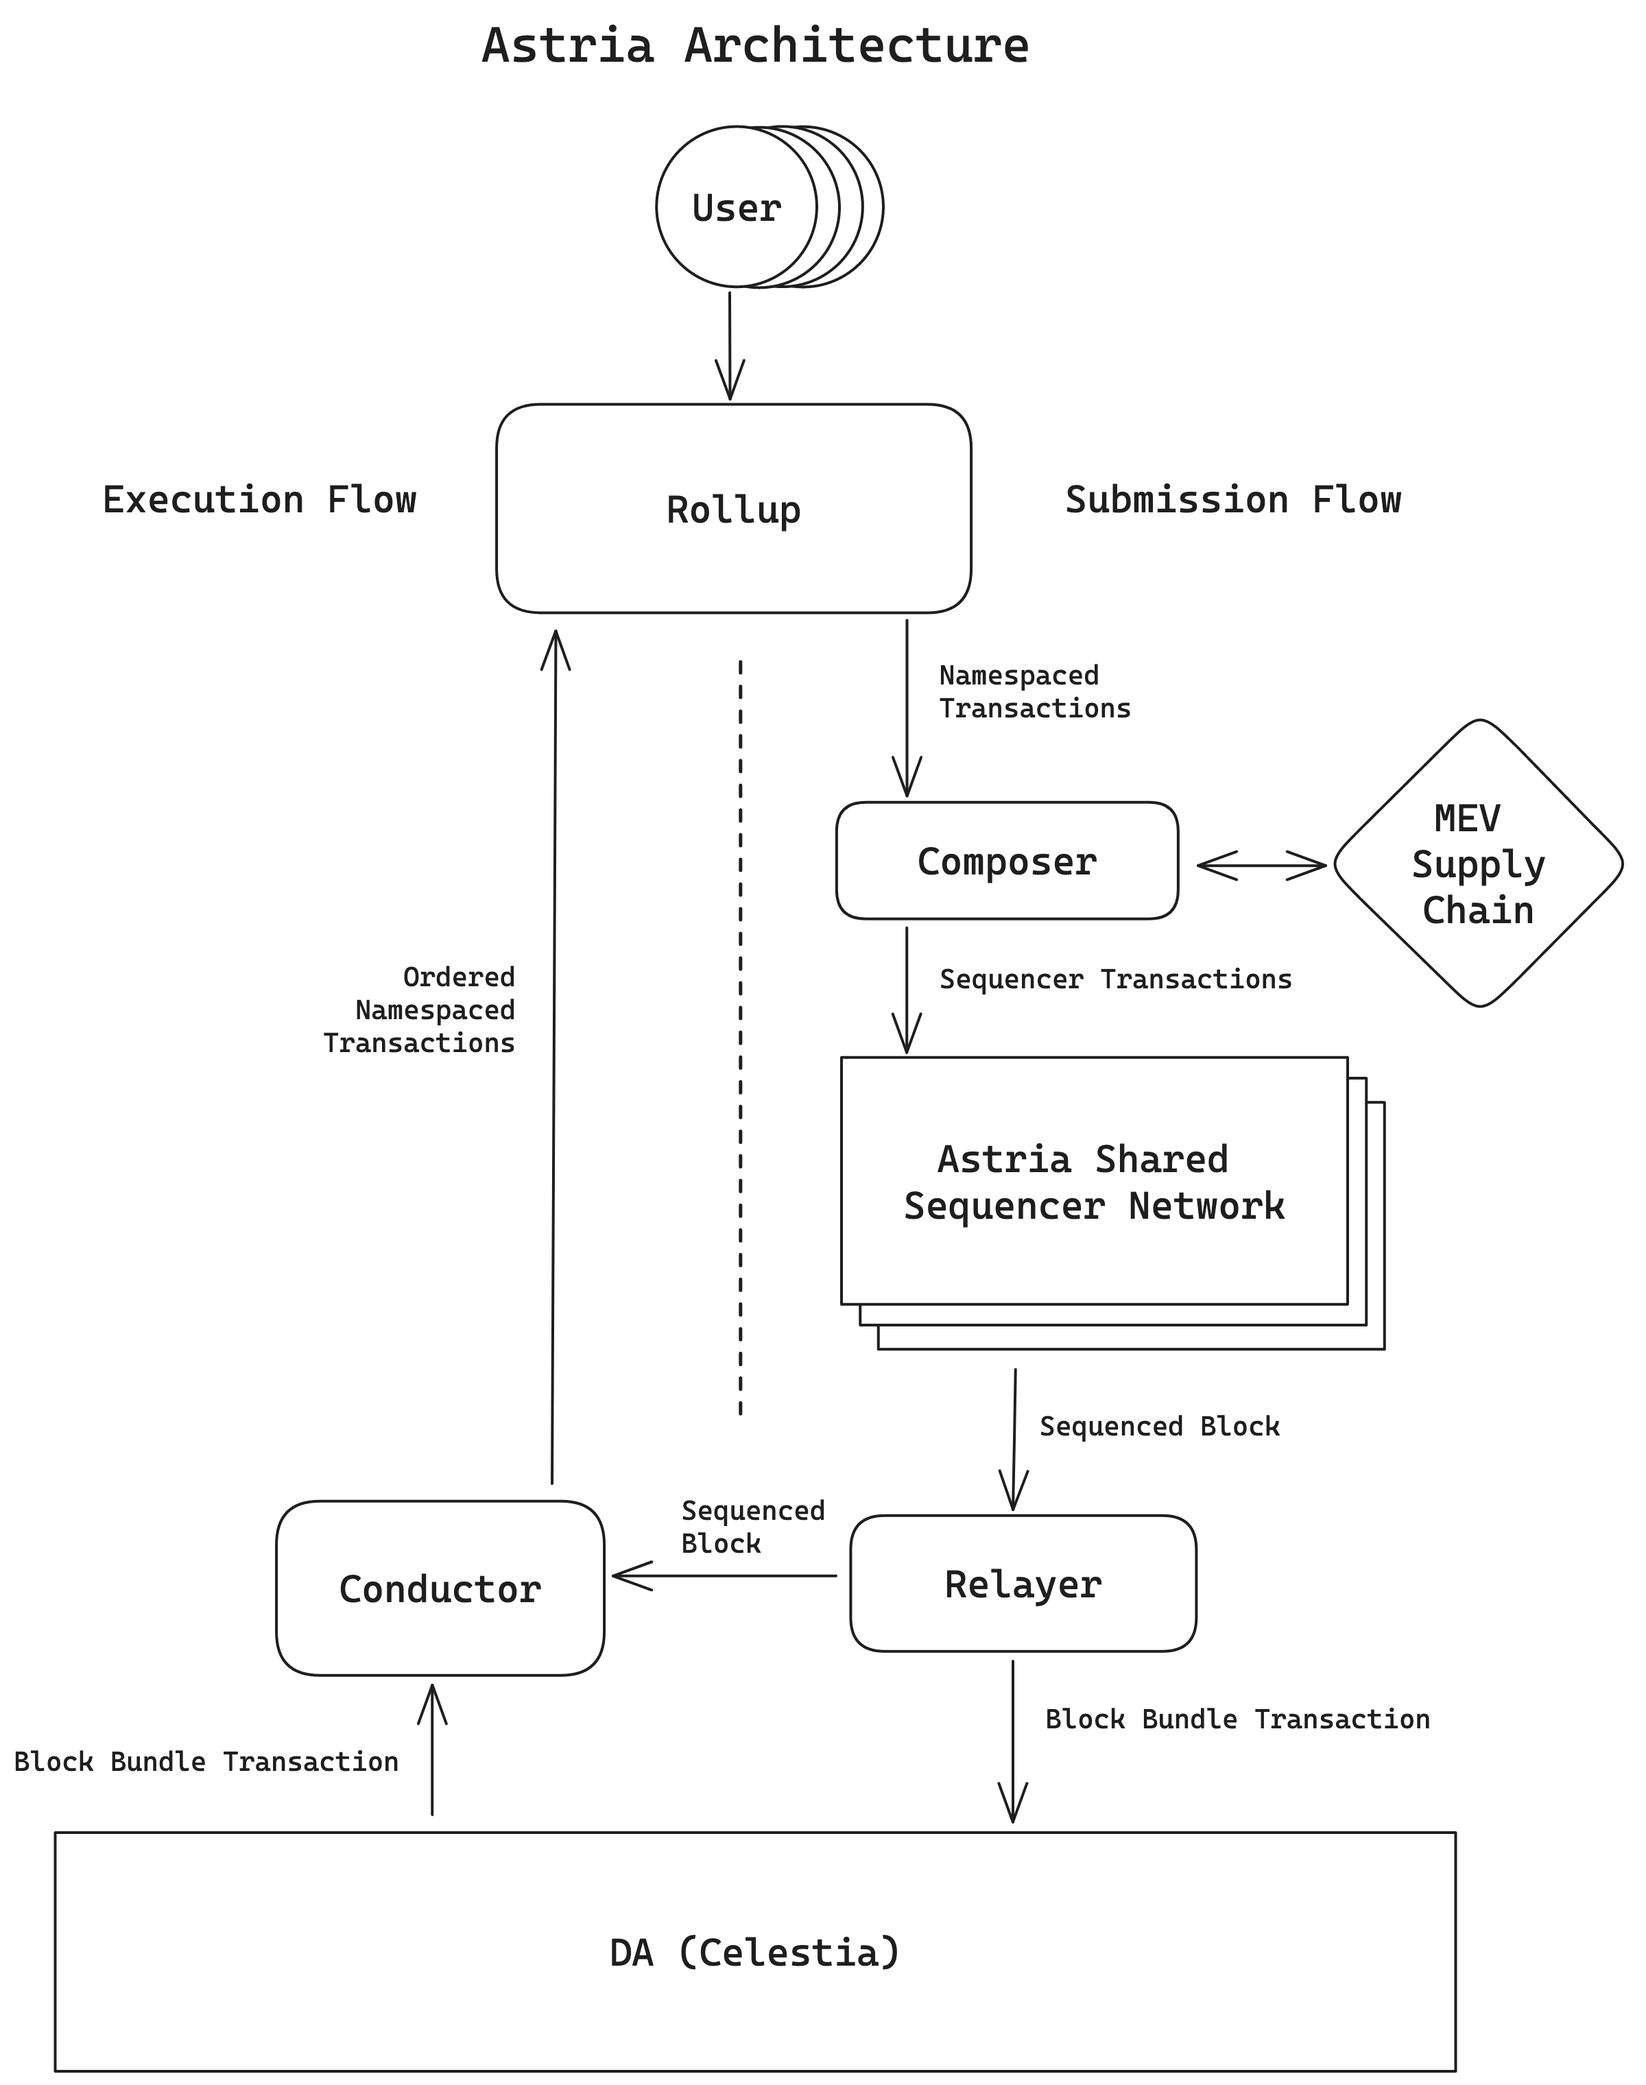
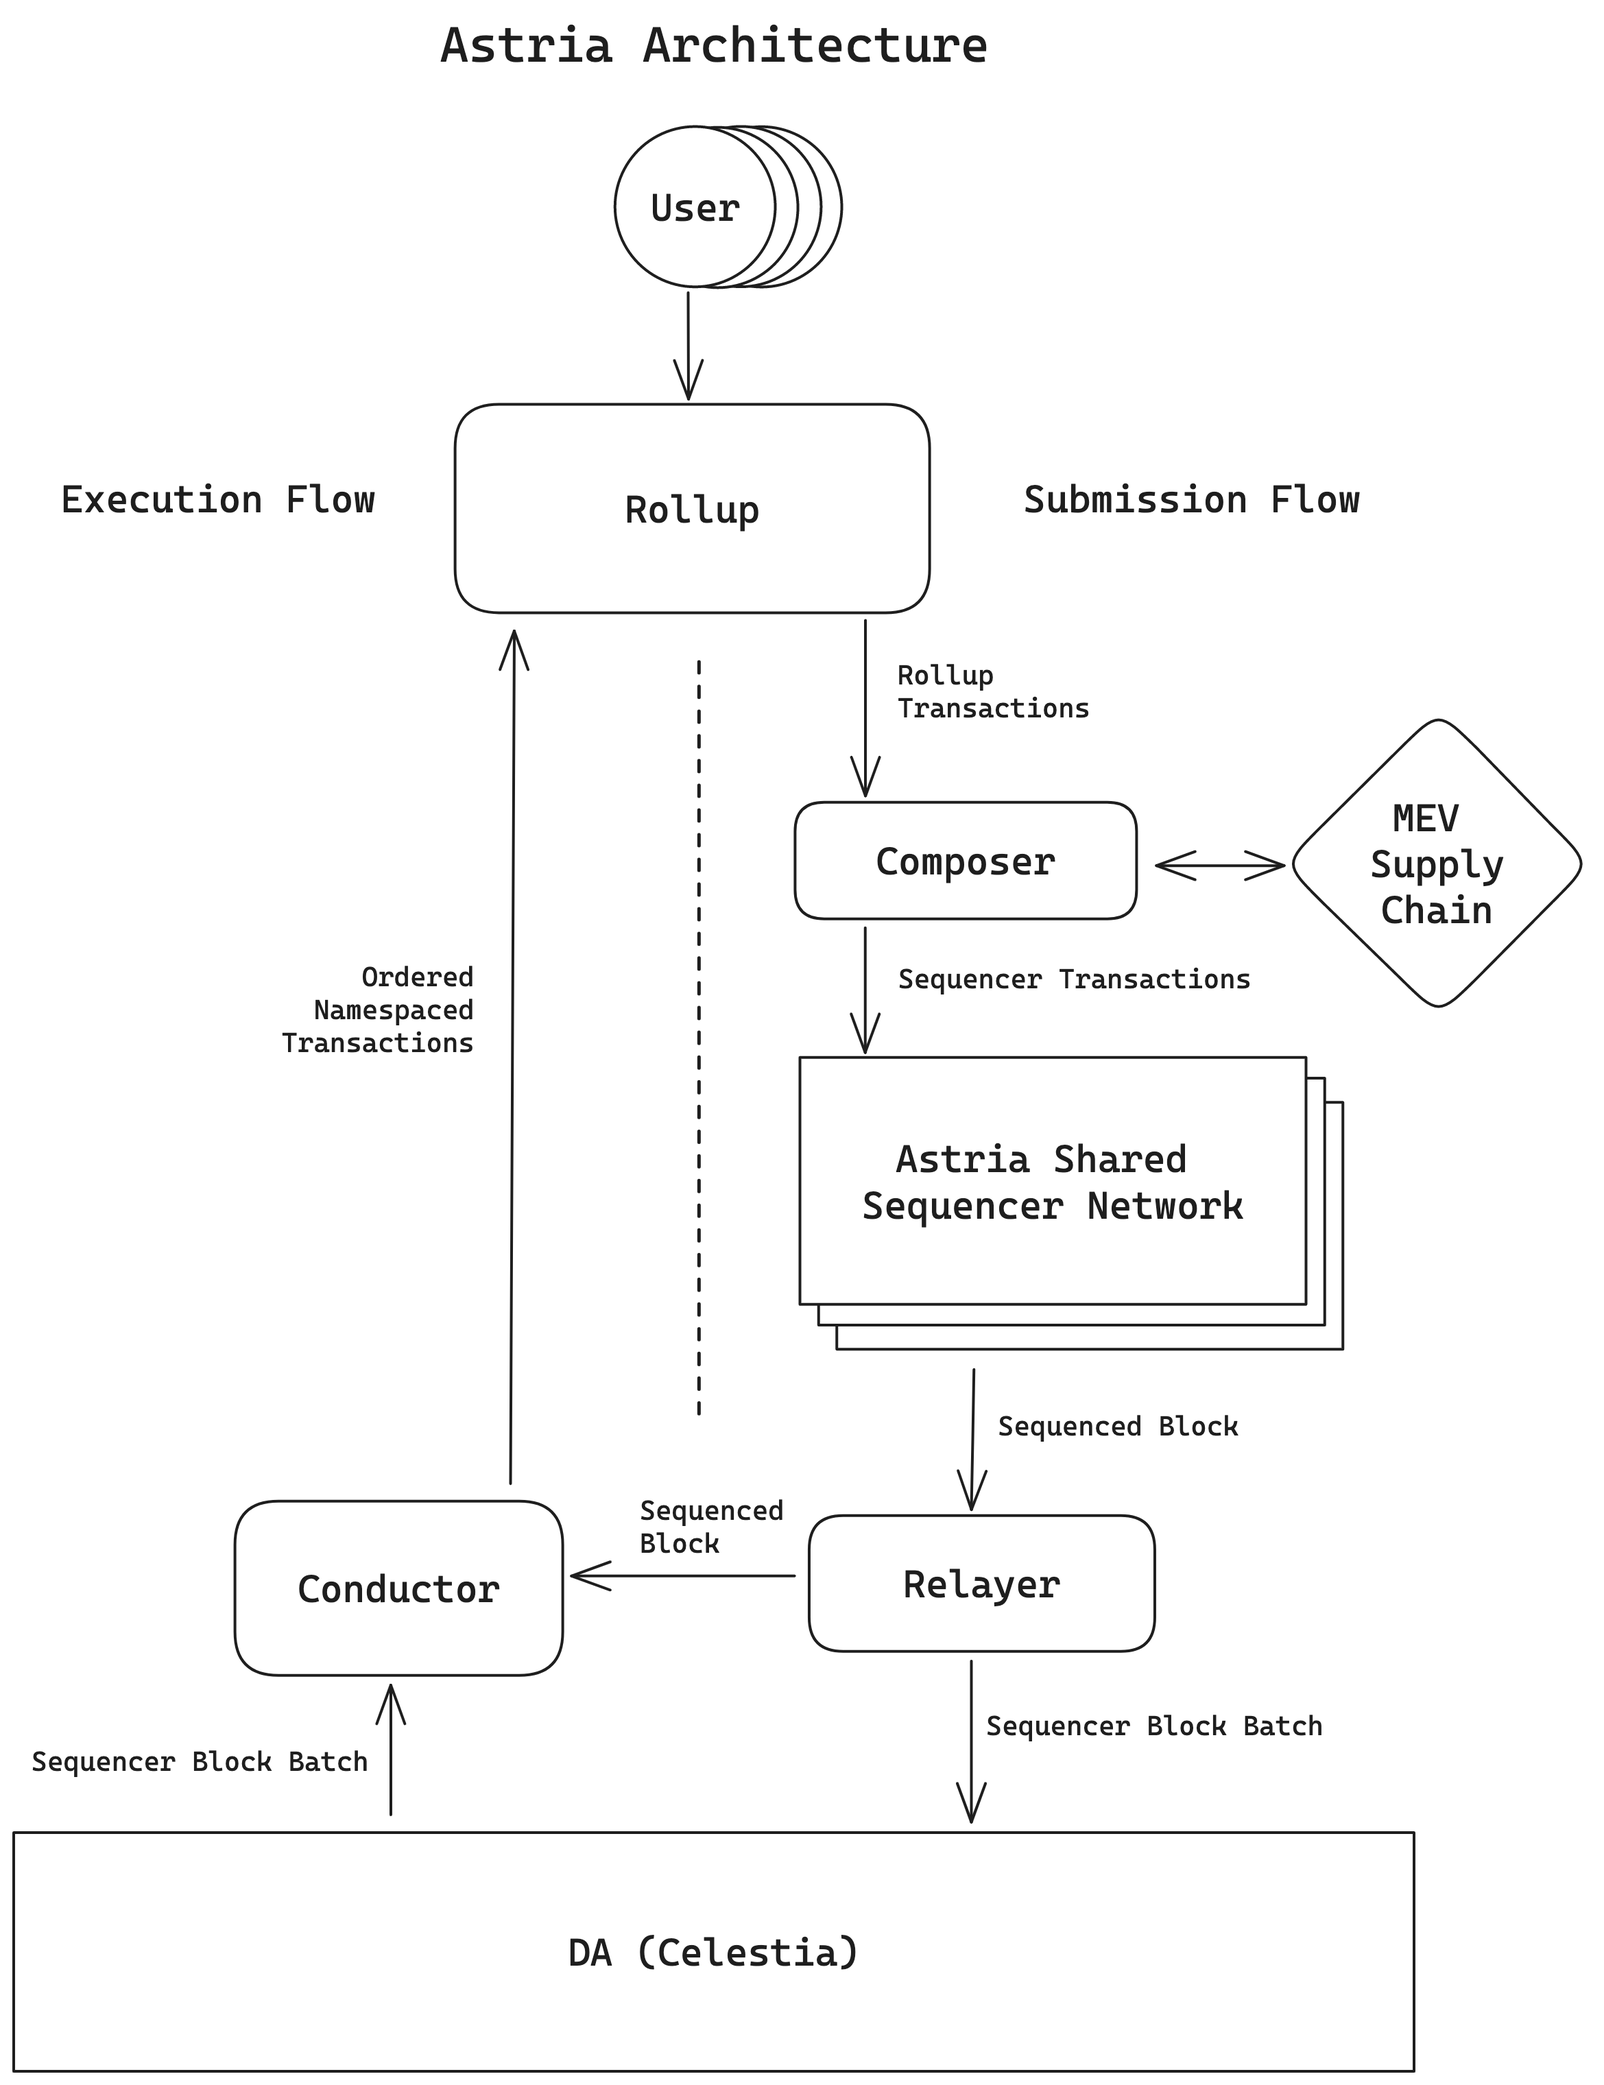
second draft

diff --git a/docs/astria.md b/docs/astria.md
@@ -17,37 +17,32 @@
  - [Summary](#summary)
 
 ## The Astria [dev-cluster](https://github.com/astriaorg/dev-cluster)
-The Astria Shared Sequencer Network replaces centralized sequencers, allowing many rollups to share a single decentralized network of sequencers that’s simple and permissionless to join. This shared sequencer network provides out-of-the-box censorship resistance, fast block confirmations, and atomic cross-rollup composability – all while retaining each rollup’s sovereignty.
+Astria's Shared Sequencer Network allows multiple rollups to share a single decentralized network of sequencers that’s permissionless to join. This shared sequencer network provides out-of-the-box censorship resistance, fast block confirmations, and atomic cross-rollup inclusion guarantees.
 
-The Astria dev-cluster is the collective stack of all of Astria's components packaged together using Kubernetes. Although we refer to Astria as just a shared sequencer, it is composed of many smaller components that each fulfill a specific function to enable the final shared sequencing functionality. Instead of users and developers having to keep track of and manage all the individual components, the dev-cluster is built to make locally deploying and testing Astria as simple and robust as possible. 
+The Astria dev-cluster is the collective stack of all of Astria's components packaged together using Kubernetes. While we generally refer to Astria as the network of shared sequencers, we provide several other components to make it simpler to integrate with the shared sequencer network. The dev-cluster is provided to make developing and testing the Astria network, as well as integrations with Astria, as simple as possible.
 
-This document outlines what each of the components do, and provides some basic instructions for running the dev cluster yourself.
+This document outlines what each of the components in the dev-cluster do, and provides instructions for how to run the dev cluster locally.
 
 ## Architecture
-If you have seen any of [Josh's](https://twitter.com/Jskybowen) recent presentations about Astria, you will likely have seen this image:
-![Astria at a high level](images/astria-high-level.png)
-This shows the basic structure of what a shared sequencer is but purposely doesn't dive into any of the details of Astria to keep things simple. However, Astria's general architecture does break down into the basic items shown above.
+At a high level, Astria breaks out all of the components that are historically combined together in monolithic blockchains into individual components. This results in a modular ecosystem that allows users to swap out components to fit their specific needs.
 
-When expanded to show more detail, Astria's architecture looks like this:
 ![Astria Architecture](images/astria-architecture.png)
-Given the diagram above, we can take a look at each of the components that make up Astria in more detail.
+Astria's architecture follows the structure outlined in the first diagram. Notable differences between Astria and the basic structure are the Composer, Relayer, and Conductor. Astria's Composer handles the order flow operations, and the Relayer and Conductor facilitate the soft and firm commitments. Ultimately, Astria's architecture is just an expanded version of the first diagram.
 
 ### Users
-One of the goals of Astria is to improve the current user experience by having fast finality, Cross Rollup Composability, decentralization, and  sovereignty all in one place and out of the box. There are no hard requirements for rollups to change how their current users interact with what they offer, but additional RPCs would need to be implemented by the rollup in order for their users to take advantage of some of those features.
+One of Astria's goals is to provide rollups with fast finality, atomic cross-rollup inclusion, and decentralization out of the box, without requiring changes to their end user experience. Individual rollups should be able to provide a native experience to their users, Metamask should "just work" with an EVM rollup, and Kepler should "just work" with a cosmos-sdk rollup.
 
 ### Rollups
-Astria is designed for permissionless rollup integration and takes advantage of lazy shared sequencing. This means that rollup developers have total sovereignty over their own execution state and can swap out sequencing layers without fear of being locked in. See the [Introduction to Astria](https://blog.astria.org/introducing-astria/) blog post for more details.
-
-When developing a rollup that utilizes Astria, there are only two interfaces that you need to satisfy:
-1. Rollup <-> Composer: 
+Astria is designed for permissionless rollup integration and takes advantage of lazy shared sequencing. This means that rollup developers have total sovereignty over their own execution state and can swap out sequencing layers without fear of being locked in. You do not need to ask for permission or go through a governance process to gain access. A rollup simply needs to satisfy the following interfaces:
+1. Write Interface (Rollup <-> Composer):
     - For transaction submissions.
-2. Rollup <-> Conductor: 
-    - For receiving data from the sequencing network.
+2. Read Interface (Rollup <-> Conductor):
+    - For receiving blocks from the shared sequencer network.
 
 The [Composer](#composer) and [Conductor](#conductor) are explained in more detail in future sections.
 
 ![Astria Rollup](images/astria-rollups.png)
-These interfaces utilize [gRPC](https://grpc.io/) to allow for rollup developers to use a wide range of languages for their application. Check out the [astria-protos](https://github.com/astriaorg/astria/tree/main/crates/astria-proto) repo for specific implementation details. This ultimately results in tremendous freedom for developers, giving them control over their own execution and state without needing to worry about the underlying sequencer and data availability infrastructure.
+Both composer and conductor expose [gRPC](https://grpc.io/) interfaces. See the [astria-protos](https://github.com/astriaorg/astria/tree/main/crates/astria-proto) repo for specific implementation details.
 
 The current dev-cluster deploys a fork of [Geth](https://github.com/astriaorg/go-ethereum) as an EVM rollup. 
 
@@ -65,7 +60,7 @@ The sequencer can optionally act as a “validator”, meaning it actively parti
 ### Relayer
 The Relayer's responsibility is to take validated blocks from the sequencer and pass them along to both the Conductor and the DA layer. Because the sequencers block times are much faster than those of the DA, the relayer also collects a queue of sequencer blocks before wrapping them for submission to DA.
 
-The individual sequencer blocks sent to the Conductor enable fast finality for an improved UX and also act as soft commits for the execution layer. The collections of blocks sent to the DA layer are used as a source of truth and are ultimately pulled from the DA to be used as firm commits for finality in the rolllups.
+The individual sequencer blocks sent immediately to the Conductor to enable fast finality for an improved UX and also act as soft commits for the execution layer. The collections of blocks sent to the DA layer are used as a source of truth and are ultimately pulled from the DA to be used as firm commits for finality in the rolllups.
 
 ### Data Availability
 The dev-cluster uses [Celestia](https://github.com/celestiaorg) as the data availability layer and is the ultimate destination of all data that has been ordered by the sequencer network. Once written to Celestia, the transaction order is considered final and it is where all data will be pulled from if you need to spin up a new rollup node.
@@ -73,9 +68,7 @@ The dev-cluster uses [Celestia](https://github.com/celestiaorg) as the data avai
 ### Conductor
 The Conductor is the second to last component in the data lifecycle for transaction in the Astria stack, with the rollup itself being both the start and finish for any given transaction. Each rollup runs its own instance of the Conductor. The Conductor's responsibility is to ingest the soft commit sequencer blocks from the relayer and pull in the firm commit data from Celestia to pass transaction data to be executed on the rollup and update the canonical chain.
 The Conductor is effectively stateless but does ephemerally store some information about the blocks it has seen and passed on to be executed. It primarily filters the transactions that are relevant to a given rollup out of the sequencer blocks for execution. The data that it does store is for sending commitment updates to the rollup.
-As mentioned in the Relayer section above, any data received by the Conductor directly from the Relayer is considered a soft commit and is filtered and sent to the rollup for execution and for setting that block to "safe". The Conductor regularly polls Celestia for new data and when it sees the same blocks in Celestia that it has already seen from the Relayer, it sends a firm commit message to the rollup to update that block to "finalized."
-
-And that's it! Hopefully you now have a better understanding of what is actually happening under the hood and what the purpose of each component of Astria is used for. Now it's time to run it yourself!
+As mentioned in the Relayer section above, any data received by the Conductor directly from the Relayer is considered a soft commit. This data is filtered using the rollup's namespace and only transactions that are relevant to the rollup are passed on as blocks for execution. These blocks are also marked as "safe". The Conductor regularly polls Celestia for new data and when it sees the same blocks in Celestia that it has already seen from the Relayer, it sends a firm commit message to the rollup to update that block to "finalized."
 
 ## Running the Cluster
 
@@ -90,7 +83,9 @@ To deploy the full dev-cluster, open a terminal in the dev-cluster directory and
 just deploy-all-local
 ```
 
-This may take a minute or two if this the first time you are deploying as quite a few containers need to be downloaded. Once the command completes, all elements of the dev-cluster will be up and running including a geth rollup, faucet and block explorer. The default deploy only spins up a single rollup but have no fear we'll get to multiple rollups shortly.
+This may take a minute or two if this the first time you are deploying as quite a few containers need to be downloaded. Once the command completes, all elements of the dev-cluster will be up and running including a geth rollup, faucet and block explorer. 
+
+At this stage you will have the full dev-cluster running with one rollup.
 
 ### Faucet, Block Explorer, and Test Data
 With the dev-cluster running, you can access the block explorer and faucet by opening a couple new windows in your browser and going to to the following urls.
@@ -109,15 +104,13 @@ To test out the block explorer, open a terminal in the astria-web3 repo you down
 ```
 just generate-transactions
 ```
-You can now go back to your browser and pull up the block explorer and you will now see transactions and blocks getting created in real time.
-
-But wait... what about 
+You can now go back to your browser and pull up the block explorer and you will now see blocks with transactions getting created in real time.
 
 ### Run Multiple Rollups
-As Astria we believe strongly that deploying a rollup should be as easy as deploying a smart contract. The dev-cluster shows this is indeed possible.
+At Astria we believe strongly that deploying a rollup should be as easy as deploying a smart contract. The dev-cluster shows this is indeed possible.
 
 Navigate back to the dev-cluster repo and run the following command with your own rollup name and network id:
-**NOTE:** The default rollup name and network id are `astria` and `912559`. When deploying your second rollup we recommend you use a different name and number.
+**NOTE:** The default rollup name and network id are `astria` and `912559`. When deploying your second rollup you ___must___ use a different name and number.
 ```
 just deploy-rollup <rollup_name> <network_id>
 ```
@@ -127,15 +120,17 @@ http://blockscout.<rollup_name>.localdev.me/
 ```
 Once everything has spin up you will see a new block explorer for your new rollup.
 
-You can now deploy transaction to that rollup as well independent from the first!
+You can now deploy transaction to that rollup independently.
 In the `evm-test-data` directory open a new terminal and run the following:
 ```
 just generate-transactions <rollup_name> <network_id>
 ```
 As before, this command will deploy test transaction data to your new rollup.
-You can also go back to your other terminal window for the test data deployment on the default rollup and rerun `just generate-transactions` command. If you switch back and forth between the default block explorer window and your new rollup window, you will see transactions showing up on each rollup independently!
+You can also go back to your original terminal window for the test data deployment on the default rollup and rerun the `just generate-transactions` command. If you switch back and forth between the default block explorer window and your new rollup window, you will see transactions showing up on each rollup independently!
 
-You may be asking, "What are the limitations here? How many rollups can I deploy?" In short, as many as your hardware can handle! You just need to pick different rollup names and network ids.
+The only limitations to running numerous rollups are the following:
+ - Can your hardware handle it
+ - There are no rollup name and network id clashes
 
 ### What's Going on Under the Hood?
 One last thing to mention is what is actually happening when you deploy a new rollup in the dev-cluster. When you you deploy a new rollup the only new containers that are getting spun up in the cluster are a new rollup node, a conductor, block explorer, and faucet. Only one instance of the shared sequencer and the DA layer remain running and the transactions from all the rollups are collectively getting run though those networks. This can be shown in the following diagram:
